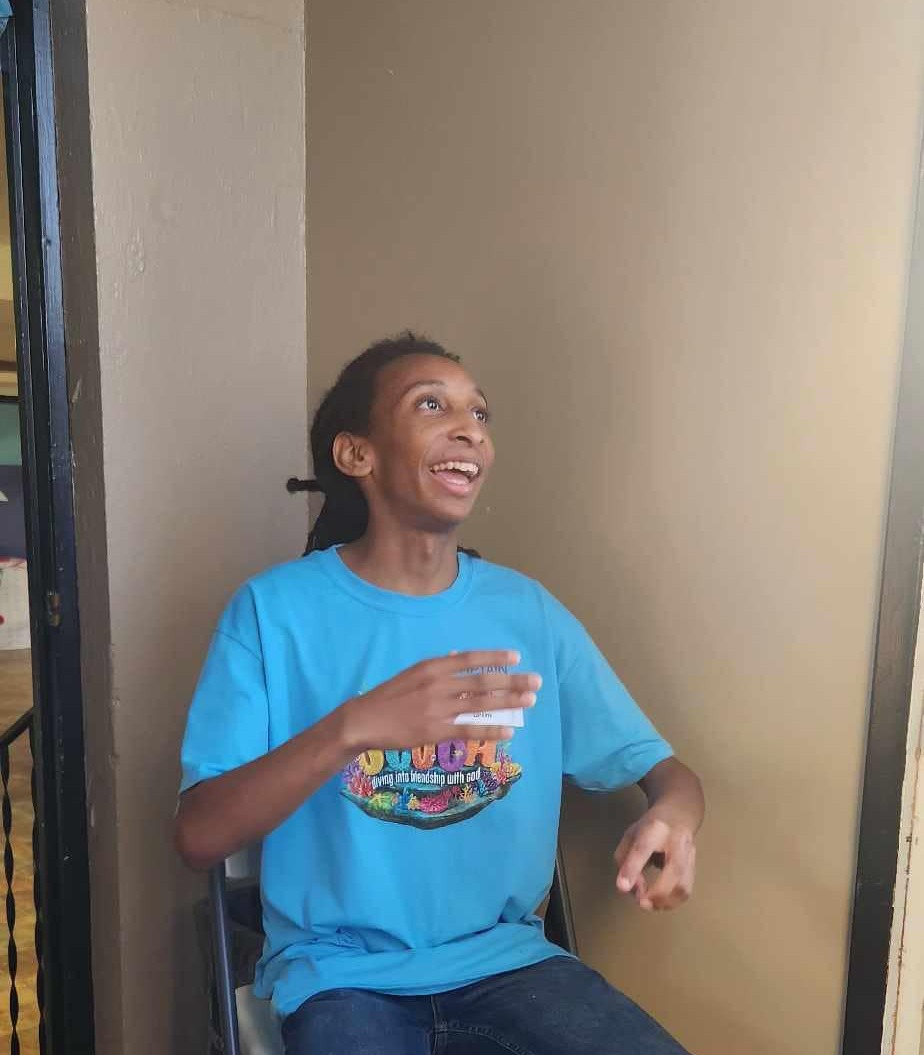
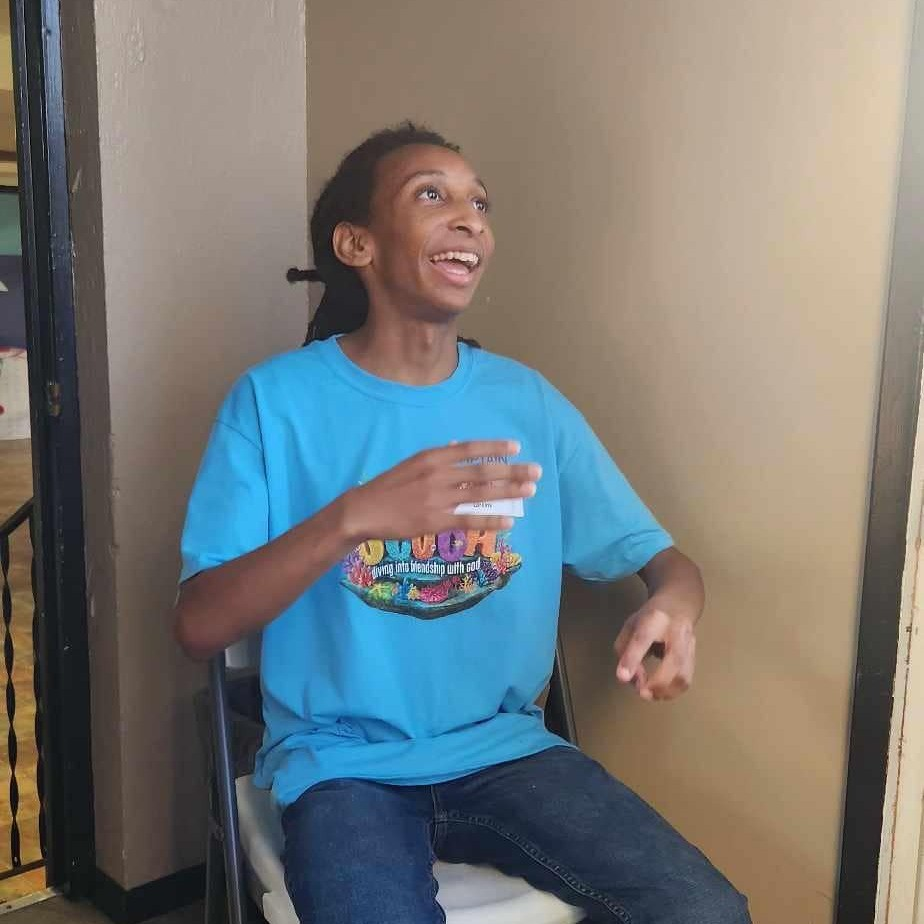
About Me Changes

diff --git a/script.js b/script.js
@@ -63,14 +63,14 @@ function scroll_projects(event) {
 
     pj.style.setProperty("transform", "translate(" + project_scroll + "vh, 30vh)");
 
-    if (project_scroll < (-105 * pj.querySelectorAll("img").length)) {
+    if (project_scroll < (-115 * pj.querySelectorAll("img").length)) {
         pj.classList.add("notransition");
-        project_scroll = (22 * pj.querySelectorAll("img").length);
+        project_scroll = (26 * pj.querySelectorAll("img").length);
         setTimeout(() => {pj.classList.remove("notransition");}, 500)
     }
-    if (project_scroll > (22 * pj.querySelectorAll("img").length)) {
+    if (project_scroll > (26 * pj.querySelectorAll("img").length)) {
         pj.classList.add("notransition");
-        project_scroll = (-105 * pj.querySelectorAll("img").length);
+        project_scroll = (-115 * pj.querySelectorAll("img").length);
         setTimeout(() => {pj.classList.remove("notransition");}, 500)
     }
 }

diff --git a/style.css b/style.css
@@ -44,8 +44,8 @@ body {
 }
 
 #logo {
-    width: 4vw;
-    height: 4vw;
+    width: 4.2vw;
+    height: 4.2vw;
     position: absolute;
     margin: 1.5vw;
     background: none;
@@ -334,13 +334,14 @@ nav .nav-item:hover {
     transition: all 0.5s ease;
 }
 
-#about a.me {
+#about a.me, h1 {
     cursor: default;
 }
 
 #about img.me {
     width: 50vh;
-    height: auto;
+    height: 50vh;
+    object-fit: cover;
     position: absolute;
     pointer-events: none;
     opacity: 0;
@@ -352,7 +353,7 @@ nav .nav-item:hover {
 }
 
 #about a.me:hover ~ img.me {
-    opacity: 0.7;
+    opacity: 0.8;
 }
 
 #mobile {
@@ -383,8 +384,8 @@ nav .nav-item:hover {
     }
 
     #logo {
-        width: 20vw;
-        height: 20vw;
+        width: 15vw;
+        height: 15vw;
         right: 0;
         margin: 5vh;
     }

diff --git a/index.html b/index.html
@@ -83,9 +83,11 @@
             <!-- Social -->
 
             <h1 id="about">
-                My name is <a class="me" href="#" onmouseenter="mouse_on_abd()" onmouseleave="mouse_off_abd()">Mischa Akil Larkins</a>. </br>
+                My name is <a class="me" href="#" onmouseenter="mouse_on_abd()" onmouseleave="mouse_off_abd()">Mischa Akil Larkins</a>, a game developer & technical artist. </br>
                 <img id="me" class="me" src="assets/me.jpg" />
-                I’m a game developer and technical artist from the United States. </br>
+                I like to express my creativity in projects. </br>
+                Not sure what a stack is, but I can use JS, HTML/CSS, Lua, & C#. </br>
+                I use Figma for designs and Krita to draw. </br>
     
                 </br>
     
